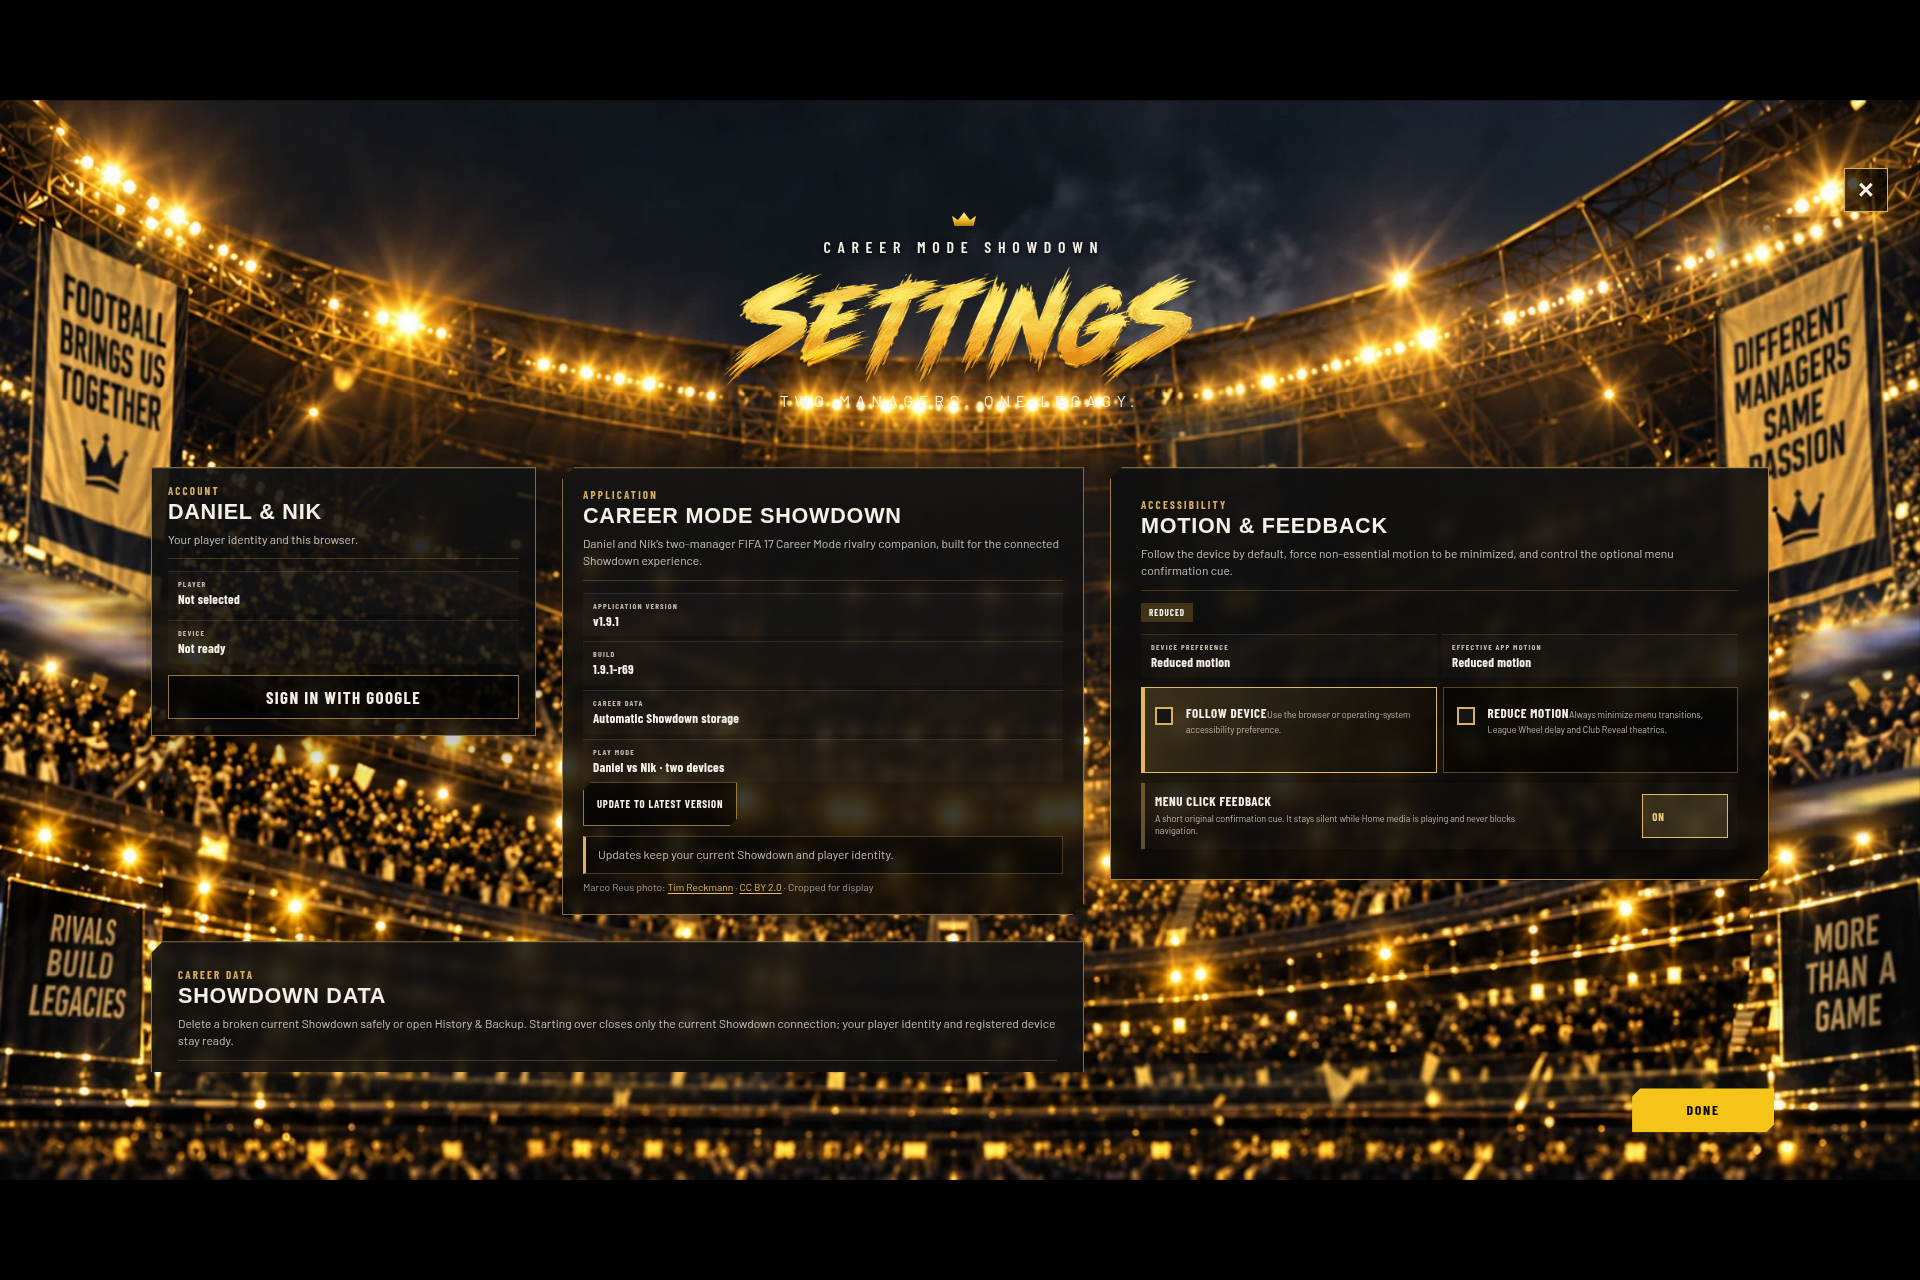
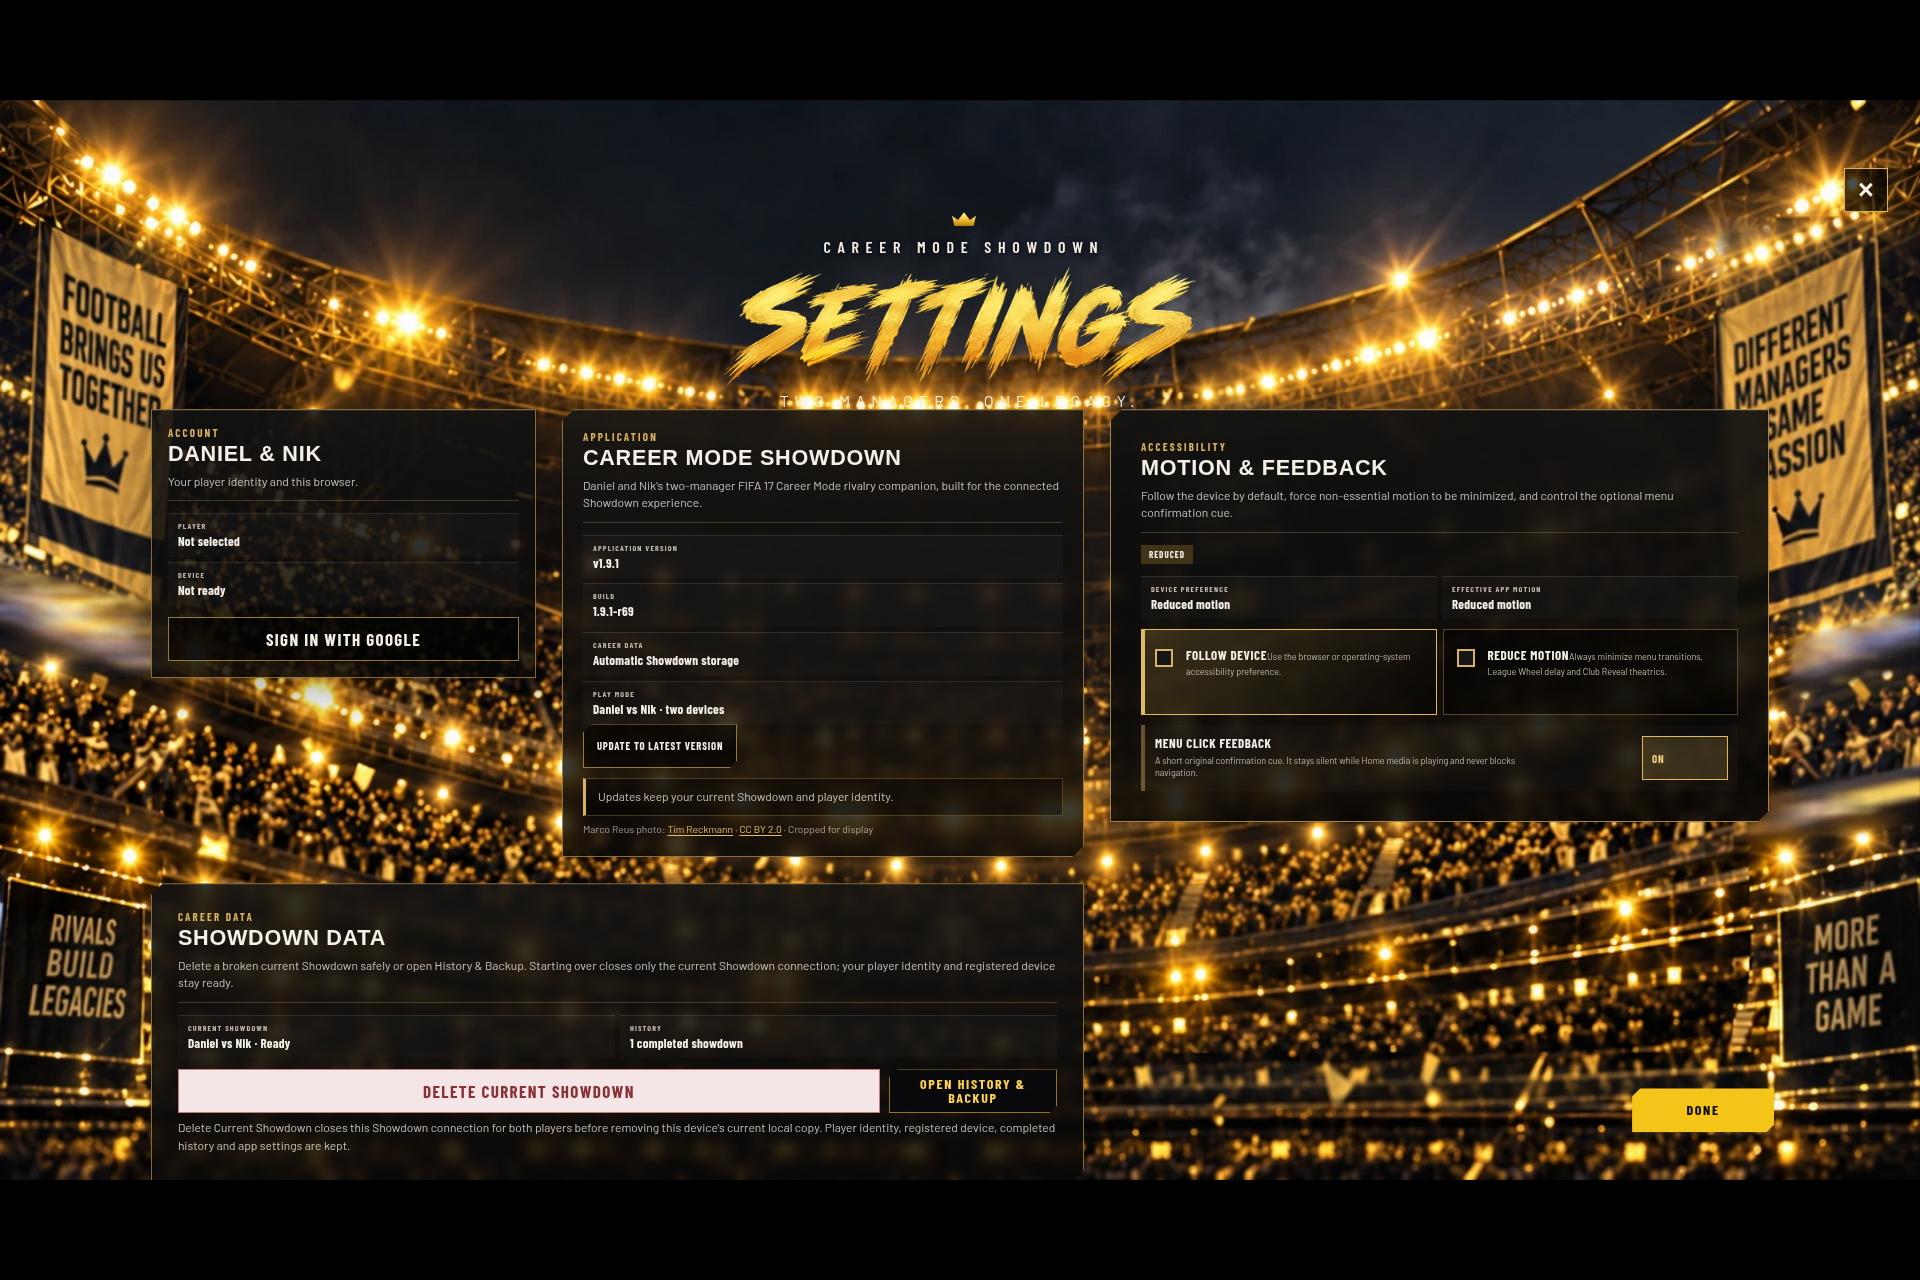
Settings guide shows the full Showdown Data card (DELETE CURRENT SHOWDOWN), League wheel rules: no rim over names or marks, one matching finish
Claude-Session: https://claude.ai/code/session_013pn5j1NjipzmcDNVpF7Fd3

Changed region(s): [[0.0625, 0.3125, 0.9375, 0.9375]]

diff --git a/project-documents/factory/tickets/TICKET-1610_11_OF_14_NEXT_SETTINGS.md b/project-documents/factory/tickets/TICKET-1610_11_OF_14_NEXT_SETTINGS.md
@@ -1,12 +1,13 @@
 # Ticket 1610 · 11 of 14 · Next-level desktop: Settings
 
-Image 11 of 14 for job 1610 (plan 2, next-level desktop), added Sun 11 Oct 12:30 a.m. Eastern; updated 2:20 a.m. Eastern with stricter rules so GPT cannot invent words, tabs or icons. Rewritten Sun 11 Oct 6:50 p.m. Eastern at Nik's request: same premium, luxury level as the new Transfer War prompt (same elements and words). One image only. The result becomes the new desktop target for Settings (`mockups/NEXT_SETTINGS.png`). Guide: live main r69 at 1920x1080.
+Image 11 of 14 for job 1610 (plan 2, next-level desktop), added Sun 11 Oct 12:30 a.m. Eastern; updated 2:20 a.m. Eastern with stricter rules so GPT cannot invent words, tabs or icons. Rewritten Sun 11 Oct 6:50 p.m. Eastern at Nik's request: same premium, luxury level as the new Transfer War prompt (same elements and words). One image only. The result becomes the new desktop target for Settings (`mockups/NEXT_SETTINGS.png`). Guide: live main r69 at 1920x1080. Fixed Sun 11 Oct 8:55 p.m. Eastern at Nik's request: the new guide shows a saved Showdown, so the whole SHOWDOWN DATA card with DELETE CURRENT SHOWDOWN fits on screen.
 
 1. Open a **ChatGPT Temporary Chat**: start a new chat outside any project, then tap the dashed-circle icon at the top right. A Temporary Chat uses no memory and no chat history, so other chats cannot leak into the picture.
 2. Attach this one file only: **GUIDE_NEXT_SETTINGS.png**. On iPhone open https://github.com/nikahanghojjati-oss/fifa17-career-showdown2/blob/factory/v1-wtt5ye/project-documents/factory/tickets/attach/GUIDE_NEXT_SETTINGS.png in Safari, press and hold the picture, then Save to Photos.
 3. Paste the prompt below exactly. If ChatGPT offers to change it, reply: `No, use my prompt exactly.`
 4. Check the picture:
    - no people added
+   - the SHOWDOWN DATA card shows CURRENT SHOWDOWN, HISTORY, DELETE CURRENT SHOWDOWN, OPEN HISTORY & BACKUP and the note under them
    - every title, label, button and number is the same and spelled right; read each line against the attached image: no new or reworded sentences, rules or labels
    - the whole screen fits, nothing cut off
    - no real club crests, league logos or trophies
@@ -26,7 +27,7 @@ MOST IMPORTANT (never break these):
 - Do not add anything this game does not have: no SQUAD, TRANSFERS, COMPETITIONS, COMPETE, PROFILE, SHOP, notification bell, avatar, search or extra menu.
 
 Keep exactly:
-- the same layout and every element in the same place: the CAREER MODE SHOWDOWN line, the SETTINGS title, the close button, the DANIEL & NIK account card with SIGN IN WITH GOOGLE, the CAREER MODE SHOWDOWN application card, the MOTION & FEEDBACK card, the SHOWDOWN DATA card and DONE;
+- the same layout and every element in the same place: the CAREER MODE SHOWDOWN line, the SETTINGS title, the close button, the DANIEL & NIK account card with SIGN IN WITH GOOGLE, the CAREER MODE SHOWDOWN application card, the MOTION & FEEDBACK card, the full SHOWDOWN DATA card (CURRENT SHOWDOWN, HISTORY, the red DELETE CURRENT SHOWDOWN button, OPEN HISTORY & BACKUP and the note under them) and DONE;
 - there are no people on this screen; do not add any people or faces;
 - every title, label, button and number spelled exactly as shown; add no new words, numbers or logos. Very small paragraph text may stay small, but never invent words.
 
@@ -37,6 +38,8 @@ The big upgrade (this is the point of this picture):
 - Camera: real depth, with shallow depth of field on the background only; every word stays sharp.
 - Lighting: dramatic but controlled, like a luxury watch advert: deep black shadows, warm gold light on the main objects, glow only on the title and the main button. No lens flares, sparkles or light bursts behind text.
 - Every text panel sits on clean near-black so every word reads easily; buttons look like real polished, bevelled game buttons.
+
+Also required: The SHOWDOWN DATA card must show all of its parts, copied exactly: "CAREER DATA", "SHOWDOWN DATA", "Delete a broken current Showdown safely or open History & Backup. Starting over closes only the current Showdown connection; your player identity and registered device stay ready.", "CURRENT SHOWDOWN" with "Daniel vs Nik · Ready", "HISTORY" with "1 completed showdown", a red-and-gold danger button "DELETE CURRENT SHOWDOWN", a gold-outlined button "OPEN HISTORY & BACKUP", and the note "Delete Current Showdown closes this Showdown connection for both players before removing this device's current local copy. Player identity, registered device, completed history and app settings are kept." The line under the title reads exactly "TWO MANAGERS · ONE LEGACY." DELETE CURRENT SHOWDOWN must look like a serious danger action, clearly different from DONE.
 
 Rules: everything must fit on this one screen with nothing cut off. No real club crests, league logos, real trophies or player photos; the club badges stay exactly as they are. The black bars at the top and bottom stay plain black. Same wide landscape framing as the attached image, largest size available.
 ```

diff --git a/project-documents/factory/tickets/TICKET-1610_5_OF_14_NEXT_LEAGUE.md b/project-documents/factory/tickets/TICKET-1610_5_OF_14_NEXT_LEAGUE.md
@@ -11,6 +11,7 @@ Image 5 of 14 for job 1610 (plan 2, next-level desktop), added Sun 11 Oct 12:30 
    - the top bar still reads CM17, then HOME, CAREER, STANDINGS, STATS, RULES, with nothing added at the right
    - the whole screen fits, nothing cut off
    - no real club crests, league logos or trophies
+   - the gold ring covers no part of any league name or mark, and all five names and marks match in colour and style
    - it looks a full level more luxurious than the attached screen, not just a light touch-up
    - Save only the picture this Temporary Chat just made. Never take one from the Images library or from another chat.
 5. If it passes, download it and drop it into Claude's factory thread with the words `1610 LEAGUE`. If it fails, close that chat and start again in a new Temporary Chat (up to 3 tries). Never send a picture that fails.
@@ -40,7 +41,7 @@ The big upgrade (this is the point of this picture):
 - Lighting: dramatic but controlled, like a luxury watch advert: a warm gold key light on both faces, deep black shadows and a gentle rim light. Glow only on the title and the main button. No lens flares, sparkles or light bursts behind heads or text.
 - Every text panel sits on clean near-black so every word reads easily; buttons look like real polished, bevelled game buttons.
 
-Also required: Make the wheel a premium polished gold prize wheel. Its five league marks are one flat gold set of this game's own marks, never real logos: Premier League = a crown, LaLiga = a bull, Bundesliga = a round plate, Serie A = a shield, Ligue 1 = the numeral 1. The marks sit fully inside their segments, never covered by the rim. The hub is a football, not a crown. Keep the stadium and both managers behind the wheel.
+Also required: Make the wheel a premium polished gold prize wheel. The gold rim must never cover any part of a league name or league mark: every name and mark sits fully inside its own segment with clear space before the rim. All five league names and marks use one matching premium finish (the same polished gold with the same dark engraving, the same size and the same lettering), so no league looks different from the others; the chosen league's segment may glow, but its name and mark keep the same style. The five league marks are this game's own marks, never real logos: Premier League = a crown, LaLiga = a bull, Bundesliga = a round plate, Serie A = a shield, Ligue 1 = the numeral 1. The hub is a football, not a crown. Keep the stadium and both managers behind the wheel.
 
 Rules: everything must fit on this one screen with nothing cut off. No real club crests, league logos, real trophies or player photos; the club badges stay exactly as they are. The black bars at the top and bottom stay plain black. Same wide landscape framing as the attached image, largest size available.
 ```
